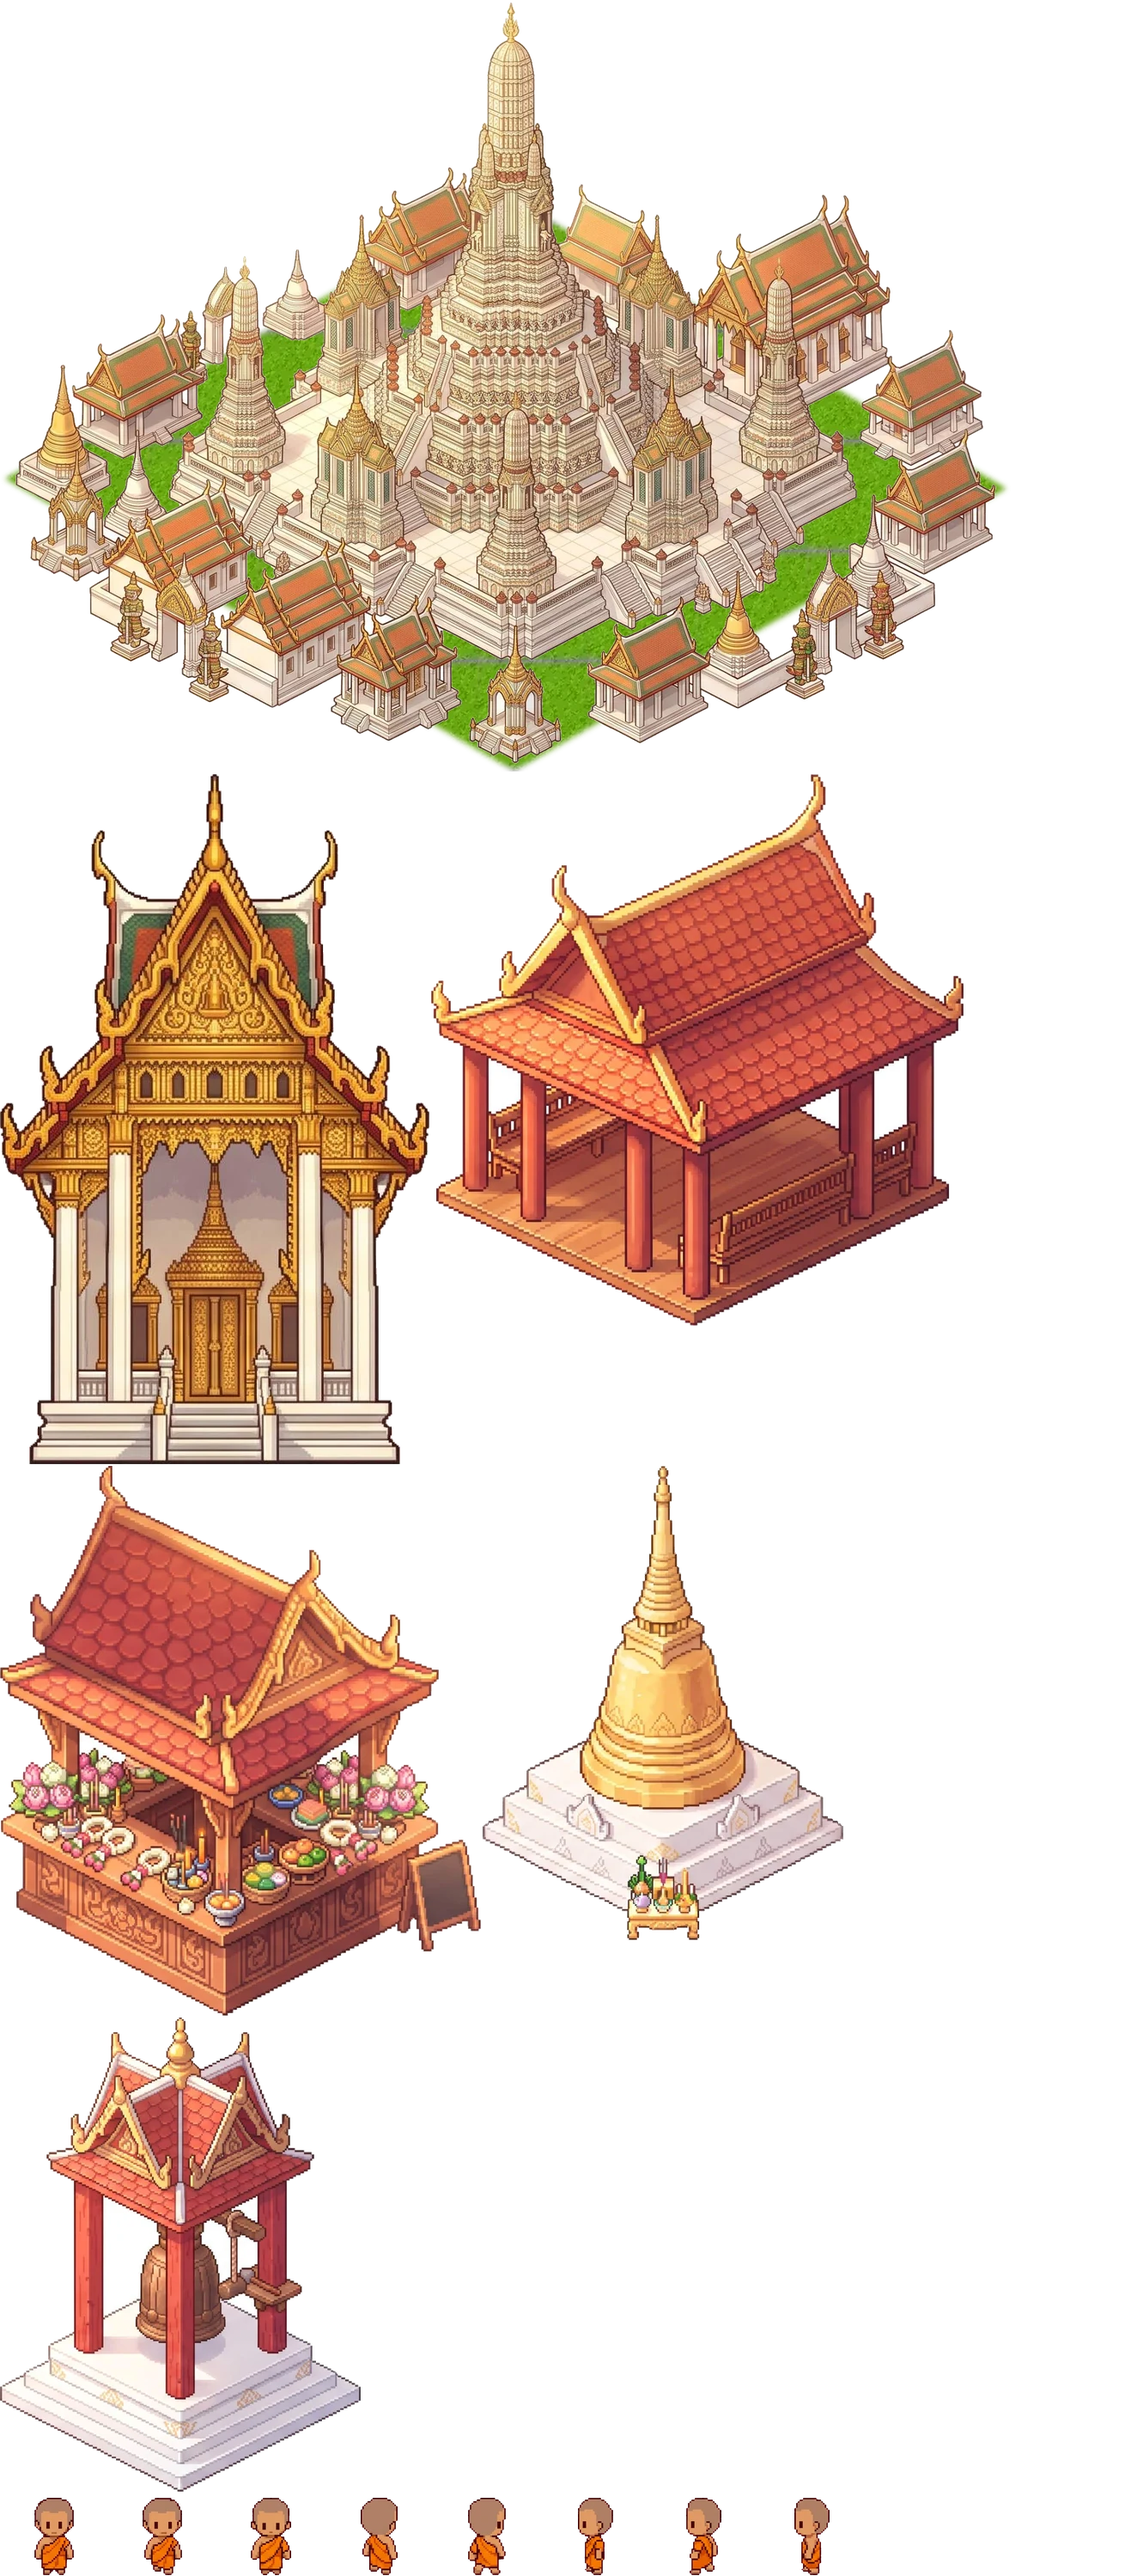
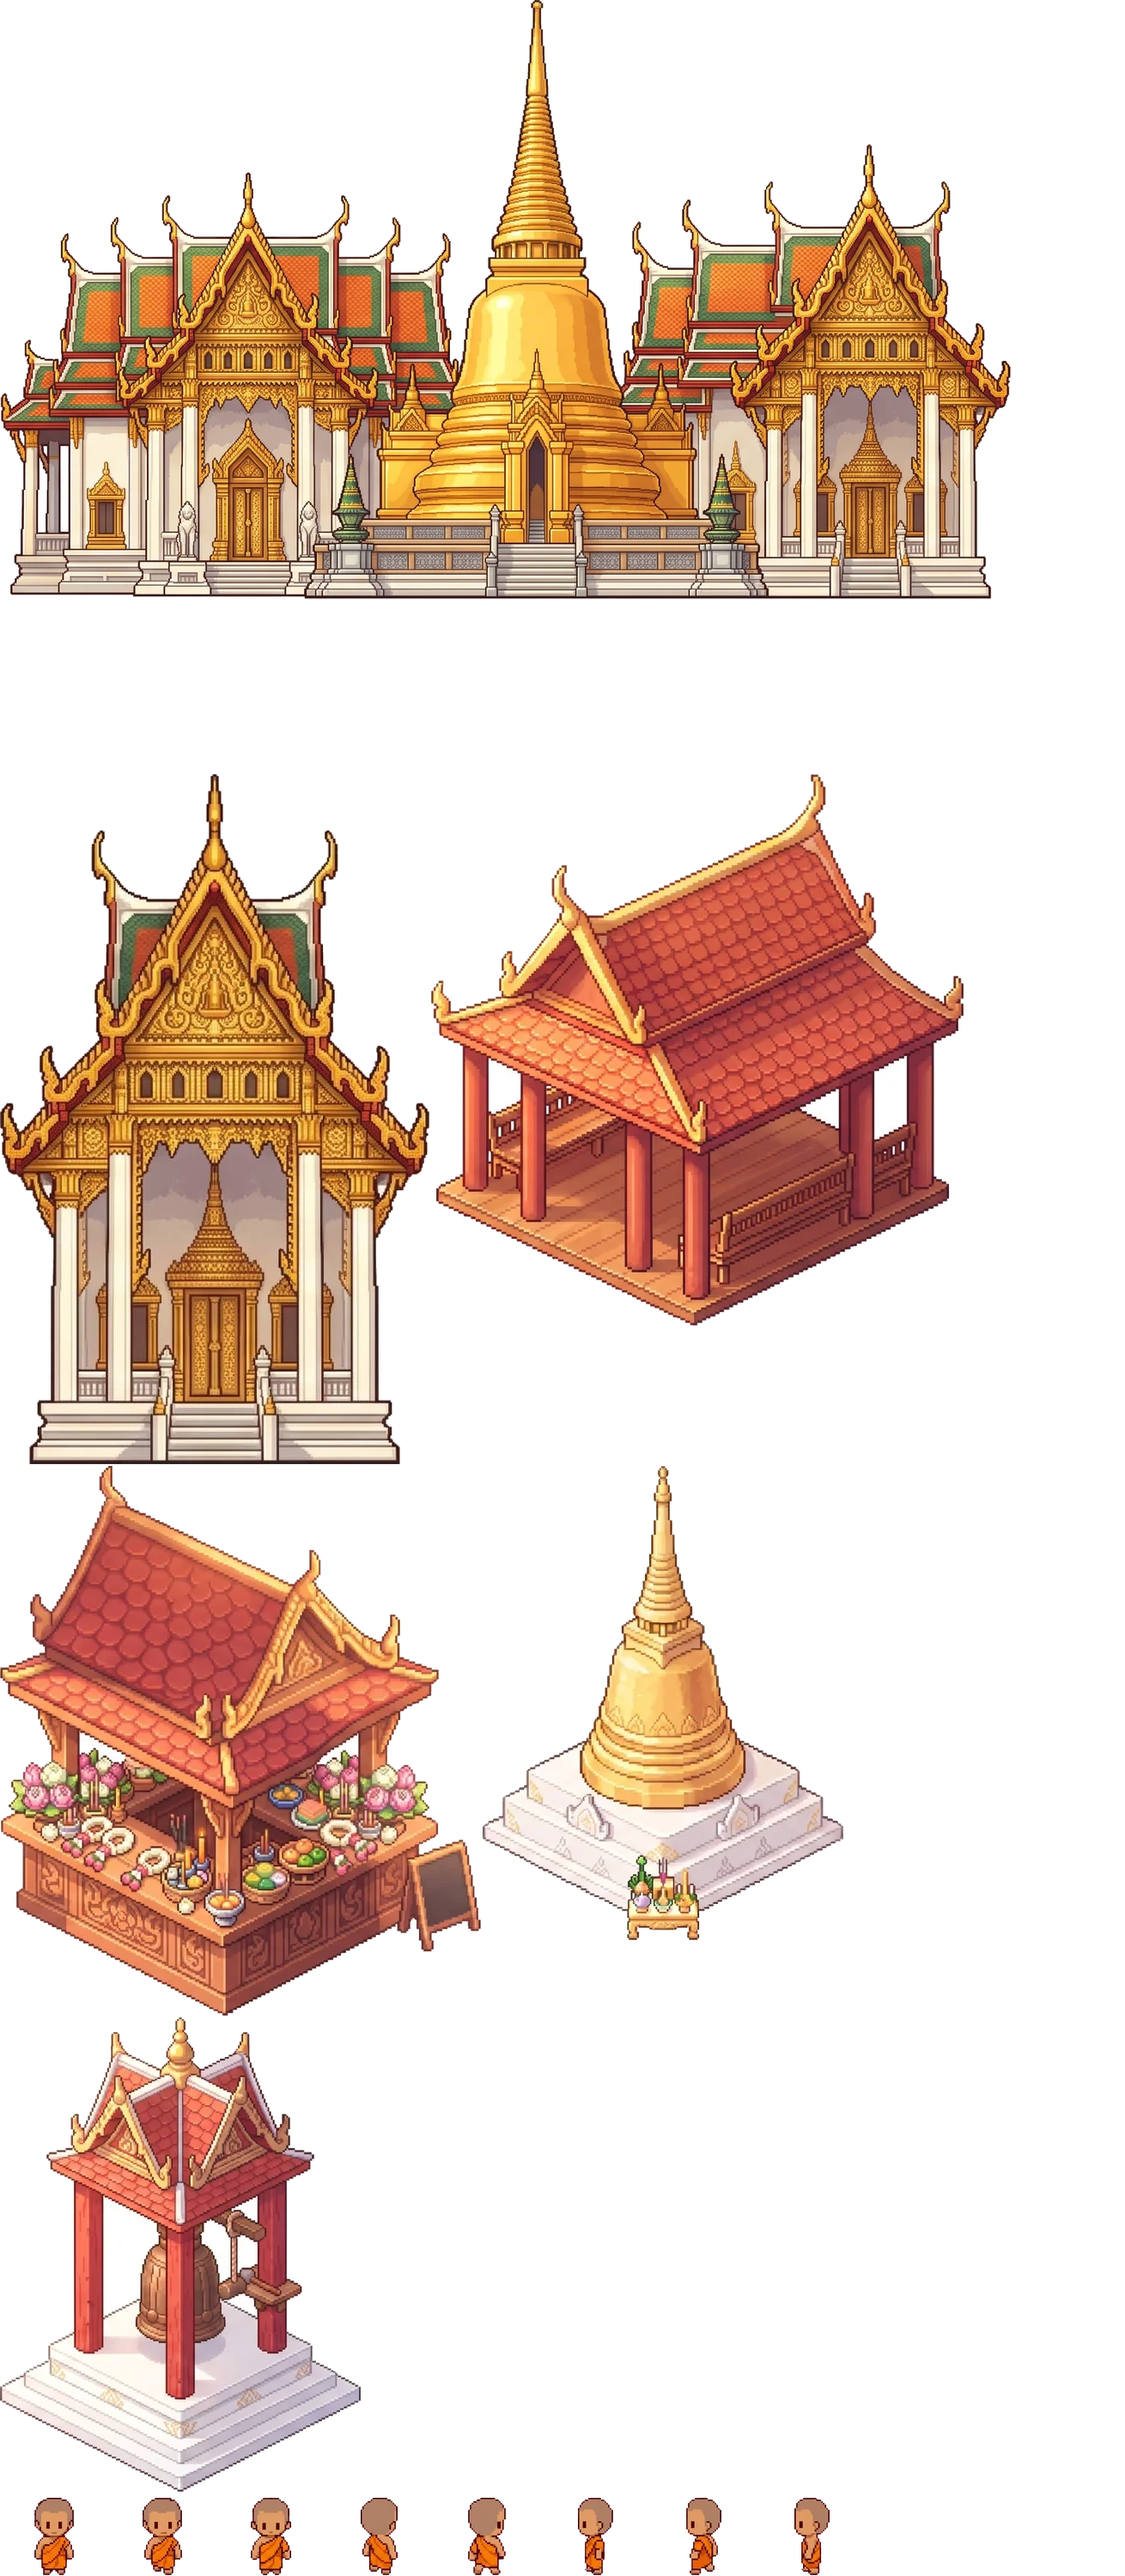
Temple: new head-on entrance picture with a stone forecourt
Claude-Session: https://claude.ai/code/session_011vTRLcvJmqJKhBboYRSi88

Changed region(s): [[0.0, 0.0, 0.916, 0.3102]]

diff --git a/server/data.js b/server/data.js
@@ -125,6 +125,7 @@ function pathDown(b, toY) { const cx = Math.floor(b.x + b.w / 2); for (let y = b
   const HS = ['h_cottage1', 'h_gable_red', 'h_cottage3', 'h_cottage2', 'h_gable_blue', 'h_cottage4'];
   [[54, 76], [61, 75], [68, 76], [76, 75], [83, 76], [3, 13], [8, 12], [12, 85], [20, 85], [30, 85], [70, 85], [80, 85]].forEach(([x, f], i) => {
     if (i === 5 || i === 6) return;                     // the two homes in the north-west corner made way for pet shop branch 2
+    if (i === 2 || i === 3) return;                     // the two homes before the temple made way for its forecourt
     const b = B('vh' + i, HS[i % 6], x, f, { label: '', icon: '🏡', deco: true });
     pathDown(b, f + 1);
     prop(i % 2 ? 'flowerbox' : 'hedge', x + (i % 2 ? 4.5 : -0.8), f + .02, false);
@@ -760,15 +761,19 @@ const RIDES = {
   for (const [x, y] of [[X + 3, Y + 14.9], [X + 11, Y + 14.9], [X + 21, Y + 29.9], [X + 38, Y + 19.9]]) prop('o_flowerbed', x, y, false);
   for (const [x, y] of [[X + 30, Y + 26.9], [X + 34, Y + 26.9]]) prop('x_orchids', x, y);
   STATIONS.push({ id: 'gate_town_t', type: 'gate', to: 'town_from_temple', label: 'กลับเข้าเมือง', icon: '🏙', x: X + 1.6, y: Y + 17, r: 1.6, area: 'temple' });
-  // the way in from town: the temple complex (painted, seen from above) on the open lawn south of the town pond. It stands on a
-  // diamond of ground; tiles inside it are solid, and the client draws it in strips so people in front of an edge stand in front.
-  const F = { cx: 74, bv: 72, hw: 8.92, lv: 5.19, x0: 64.66, by: 72.18, w: 18.39 };   // bottom vertex, half width, side-vertex rise; picture left/bottom/width
-  for (let y = 56; y <= 71; y++) for (let x = 62; x <= 86; x++) { const c = get(x, y); if (c === 'T' || c === 'o') set(x, y, '.'); }
-  for (let i = PROPS.length - 1; i >= 0; i--) { const q = PROPS[i]; if (q.x >= 62 && q.x < 87 && q.y >= 56.5 && q.y < 72.5 && !(q.s === 'pond')) PROPS.splice(i, 1); }
-  for (let i = TREES.length - 1; i >= 0; i--) { const q = TREES[i]; if (q[0] >= 62 && q[0] <= 86 && q[1] >= 56 && q[1] <= 71) TREES.splice(i, 1); }
-  for (let y = 60; y <= 72; y++) for (let x = 64; x <= 84; x++) { const dx = Math.abs(x + .5 - F.cx) / F.hw, dy = Math.abs(y + .5 - (F.bv - F.lv)) / F.lv; if (dx + dy <= .92) set(x, y, 'o'); }
-  rect(73, 72, 3, 4, 'c'); rect(71, 72, 7, 1, 'c');                            // the stone walk from the road up to the steps
-  prop('o_lantern', 72.4, 74.95); prop('o_lantern', 75.6, 74.95); prop('signpost', 76.6, 75.9, false);
+  // the way in from town: the temple front (painted head-on, like the town's buildings) on the lawn south of the town pond: two
+  // ordination halls either side of a golden chedi. Its front edge is a straight line (lv 0); the tiles behind it are solid.
+  const F = { cx: 74, bv: 72.2, hw: 9.2, lv: 0, x0: 64.22, by: 72.2, w: 18.4 };   // the chedi's steps (53% across the picture) line up with the gate
+  for (let y = 56; y <= 75; y++) for (let x = 62; x <= 86; x++) { const c = get(x, y); if (c === 'T' || c === 'o' || (y >= 72 && c === 'c' && x > 64 && x < 83)) set(x, y, '.'); }
+  for (let i = PROPS.length - 1; i >= 0; i--) { const q = PROPS[i]; if (q.x >= 62 && q.x < 87 && q.y >= 56.5 && q.y < 76.5 && q.s !== 'pond' && !(q.x < 66 || q.x > 82)) PROPS.splice(i, 1); }
+  for (let i = TREES.length - 1; i >= 0; i--) { const q = TREES[i]; if (q[0] >= 62 && q[0] <= 86 && q[1] >= 56 && q[1] <= 75) TREES.splice(i, 1); }
+  rect(64, 65, 19, 7, 'o'); rect(72, 61, 5, 4, 'o');                              // the halls and the chedi (its spire rises behind)
+  rect(64, 72, 19, 1, 'c'); rect(72, 73, 5, 3, 'c');                              // a stone terrace along the front, a wide walk down to the road
+  for (const [x, y] of [[66, 74], [81, 74]]) { set(x, y, 'T'); TREES.push([x, y, 'tree_white']); }   // frangipani, as at every temple
+  for (const x of [69, 79]) prop('o_flowerbed', x, 74.4, false);
+  for (const x of [71.4, 77.6]) prop('o_lantern', x, 74.95);
+  for (const x of [67.5, 70.2, 77.8, 80.5]) prop('bush2', x, 75.9, false);
+  prop('signpost', 78.9, 75.9, false);
   STATIONS.push({ id: 'gate_temple', type: 'gate', to: 'temple_in', label: 'เข้าวัด', icon: '🛕', x: 74, y: 72.8, r: 1.9, area: 'town', facade: F });
   GATES.temple_in = { x: X + 3.5, y: Y + 17 }; GATES.town_from_temple = { x: 74, y: 73.8 };
 }

diff --git a/public/game.js b/public/game.js
@@ -3148,7 +3148,7 @@ function drawRideImg(s, X, Y, t, used) {
 // ------------------------------------------------------------------ 🛕 the temple: painted sprites (assets/temple.webp), shapes as a fallback
 let WJ = null, WIMG = null;
 let watAsked = false;   // loaded the first time the temple (or its front in town) comes into view
-function loadWat() { if (watAsked) return; watAsked = true; fetch('assets/temple.json?v=3').then(r => r.json()).then(j => { const im = new Image(); im.onload = () => { WJ = j; WIMG = im; }; im.src = 'assets/temple.webp?v=3'; }).catch(() => { watAsked = false; }); }
+function loadWat() { if (watAsked) return; watAsked = true; fetch('assets/temple.json?v=4').then(r => r.json()).then(j => { const im = new Image(); im.onload = () => { WJ = j; WIMG = im; }; im.src = 'assets/temple.webp?v=4'; }).catch(() => { watAsked = false; }); }
 function wdraw(n, cx, by, wT, alpha = 1) { const r = WJ?.s[n]; if (!r) return false; const w = wT * TS, h = w * r[3] / r[2]; ctx.globalAlpha = alpha; ctx.drawImage(WIMG, r[0], r[1], r[2], r[3], cx - w / 2, by - h, w, h); ctx.globalAlpha = 1; return true; }
 const monkFr = {};
 function monkFrame(name) {   // the monk's own walk frames (same cell and feet point as the player sprites)
@@ -5552,6 +5552,9 @@ const needCareer = c => job(c) || !G.careers[c] ? '' : `<div class="sub" style="
 
 // what's new: a short summary of every update (newest first). Shown once after each update; also under ⚙ → 🆕 อัปเดต
 const NEWS = [
+  { v: '2026-11-24q', d: '22 พ.ย.', items: [
+    '🛕 ทางเข้าวัดโฉมใหม่! โบสถ์สองหลังขนาบเจดีย์ทององค์ใหญ่ มีลานหินหน้าวัด ต้นลีลาวดี โคมไฟ และแปลงดอกไม้ เดินขึ้นบันไดกลางเพื่อเข้าวัด',
+  ] },
   { v: '2026-11-24p', d: '22 พ.ย.', items: [
     '⚖ ปรับสมดุล: ค่าจ้างภารกิจอาชีพ (รับจาก NPC) ลดลงราวครึ่งหนึ่ง เพราะเดิมได้มากกว่างานหลักของทุกอาชีพ 2–3 เท่า',
   ] },
